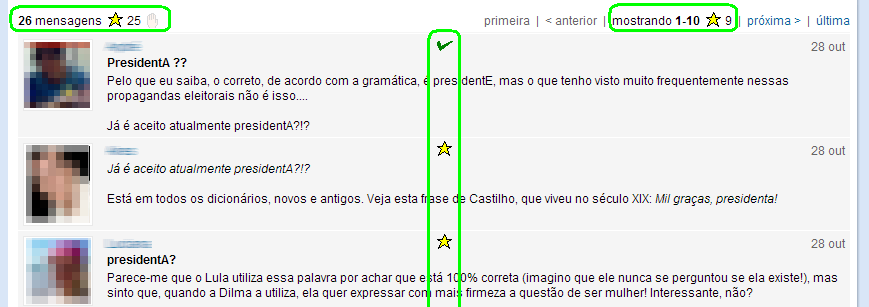
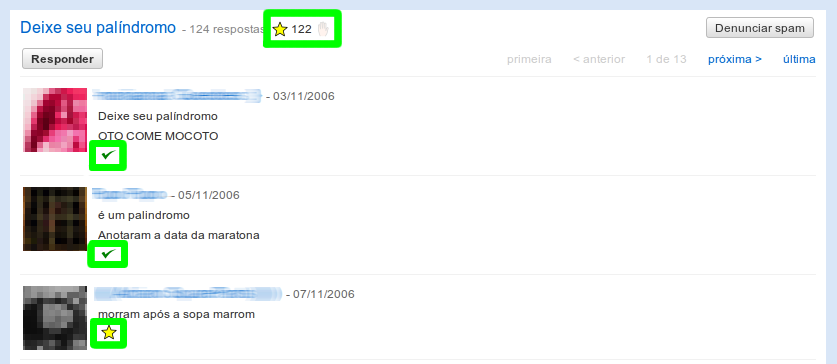
Revisão de instruções e capturas de tela.

diff --git a/src/background/options.html b/src/background/options.html
@@ -63,8 +63,7 @@
 			img.screenshot {
 				border: 1px solid black;
 				text-align: center;
-				width: 90%;
-				margin-left: 5%;
+				margin-left: 20px;
 			}
 			
 			img.off {
@@ -239,27 +238,17 @@
 			</div>
 			
 			<div id="cont-instructions" class="content-panel">
-				Ícones ajudam a identificar a situação de leitura dos tópicos e suas mensagens.
-				O significado dos ícones estão explicados abaixo.
-				Quanto estiver navegando no Orkut™, pode-se ver uma descrição dos ícones ao passar o mouse sobre eles.
+				Navegue nas comunidades do Orkut™ com ícones que ajudam a identificar a situação de leitura dos tópicos e suas mensagens.<br/>
+				O significado dos ícones estão explicados abaixo e uma descrição pode ser vista ao passar o mouse sobre um ícone quando estiver navegando no Orkut™.<br/>
+				Esta extensão funciona nas <b>versões nova e antiga</b> do Orkut™.<br/>
+				Consulte as <a href="#limitations">limitações</a> a que esta extensão está sujeita.
 				
 				<br/><br/>
-				<div class="warning">
-					<b>ATENÇÃO</b>: Devido a alterações feitas no Orkut™, esta extensão só é compatível com a
-					versão antiga do Orkut™. Para usá-la, clique em "versão antiga" na parte superior
-					direita da página do Orkut™ e em seguinda no botão "voltar para o orkut antigo".
-					<br/>
-					Uma nova versão desta extensão está sendo preparada para funcionar com as alterções recentes feitas no Orkut™.
-					<br/>
-					Veja mais informações sobre <a href="#limitations">limitações</a>.
-				</div>
-				
-				<br/>
 				<hr/>
 				<h3>Lista de tópicos</h3>
 				<img class="screenshot" src="../images/screenshots/TopicList.png"><br/>
 				<br/>
-				Na lista de tópicos da comunidade haverá uma coluna a mais - <b>status</b> - que informará:
+				Na lista de tópicos, em cada tópico haverá um ícone que informará:
 				<ul>
 					<li><img src="../images/check.png"> Não há mensagens novas no tópico.</li>
 					<li><img src="../images/exclamation.png"> O tópico é novo / nenhuma mensagem foi lida.</li>
@@ -273,10 +262,9 @@
 				<h3>Mensagens de um Tópico</h3>
 				<img class="screenshot" src="../images/screenshots/TopicMessages.png"><br/>
 				<br/>
-				Nas páginas de mensagens de um tópico, os ícones estarão acima da lista de mensagens e em cada mensagem.
-				Os ícones que aparecem acima da lista se repetem abaixo da lista de mensagens.
+				Nas páginas de mensagens de um tópico, haverá ícones na parte superior da página &ndash; ao lado do título do tópico &ndash; e em cada mensagem.
 				<br/>
-				Acima da lista, do lado esquerdo, há um indicador do número total de mensagens do tópico e poderá haver os seguintes ícones referentes ao <b>tópico</b>:
+				Na parte superior da página, há um indicador do número total de mensagens do tópico e poderá haver os seguintes ícones referentes ao <b>tópico</b>:
 				<ul>
 					<li><img src="../images/check.png"> O tópico foi todo lido / não há mensagens novas.</li>
 					<li><img src="../images/exclamation.png"> O tópico é novo / nenhuma mensagem foi lida.</li>
@@ -286,20 +274,11 @@
 					<li><img src="../images/ignored.png" class="off"> Clique para ignorar o tópico.</li>
 				</ul>
 				<br/>
-				Na área do lado direito, acima da lista de mensagens, estão os links tradicionais para navegação entre páginas.
-				Entre eles, há um indicador do intervalo de mensagens exibidas na página atual e poderá haver os seguintes ícones referentes às <b>mensagens na página atual</b>:
+				Em cada mensagem haverá um ícone de ação referente à <b>mensagem</b>:
 				<ul>
-					<li><img src="../images/check.png"> Todas as mensagens da página atual (e anteriores) foram lidas.</li>
-					<li><img src="../images/exclamation.png"> Nenhuma mensagem da página atual (e seguintes) foi lida.</li>
-					<li><img src="../images/star.png"> Indica que a página atual é a primeira com mensagens novas.
-						O número ao lado do ícone indica quantas mensagens há para serem lidas na página atual.</li>
-				</ul>
-				<br/>
-				Na parte superior de cada mensagem, no centro, haverá um ícone de ação referente à <b>mensagem</b>:
-				<ul>
-					<li><img src="../images/check.png"> A mensagem já foi lida. Clique para marcar o tópico como <b>não</b>-lido a partir dela
+					<li><img src="../images/check.png"> A mensagem já foi lida. Clique para marcar o tópico como <b>não-lido</b> a partir dela
 						(a mensagem e todas as seguintes serão marcadas como não-lidas).</li>
-					<li><img src="../images/star.png"> Indica que a mensagem ainda não foi lida. Clique para marcar que o tópico foi lido até esta mensagem
+					<li><img src="../images/star.png"> Indica que a mensagem ainda não foi lida. Clique para marcar que o tópico <b>foi lido</b> até esta mensagem
 						(a mensagem e todas as anteriores serão marcadas como lidas).</li>
 				</ul>
 			</div>
@@ -308,15 +287,16 @@
 				Esta extensão adiciona novas funcionalidades ao Orkut™ usando informações contidas nas próprias páginas
 				do Orkut™ e, assim, está sujeita a situações como as listadas abaixo: 
 				<ul>
-					<li>O Google™ pode fazer alterações nas páginas do Orkut™ a qualquer momento sem aviso prévio, o
-						que pode fazer com que a extensão deixe de funcionar parcialmente ou totalmente.</li>
 					<li>A extensão faz o melhor esforço para usar as informações contidas nas páginas no Orkut™. Em
 						algumas situações as informações não são suficientes, o que pode causar situações "estranhas"
 						como exibir um número negativo de mensagens novas ou não destacar com uma estrela um tópico
 						que tenha mensagens novas. (Estes dois casos podem acontecer em situações em que mensagens
 						são removidas do tópico.)
 						</li>
+					<li>O Google™ pode fazer alterações nas páginas do Orkut™ a qualquer momento sem aviso prévio, o
+						que pode fazer com que a extensão deixe de funcionar parcialmente ou totalmente.</li>
 				</ul>
+				O Marcador de Tópicos para o Orkut™ funciona somente com o Orkut™ em português do Brasil.
 			</div>
 		</div>
 	</body>

diff --git a/src/content_script/TopicListPageProcessor.js b/src/content_script/TopicListPageProcessor.js
@@ -38,25 +38,19 @@ TopicListPageProcessor.prototype.pageIsReady = function() {
 
 TopicListPageProcessor.prototype.process = function() {
 	// Encontra os tópicos na página
-	var items = this.doc.evaluate('//a[starts-with(@href, "#CommMsgs?cmm=")]/..', this.doc, null, XPathResult.ORDERED_NODE_SNAPSHOT_TYPE, null);
-	for(var i = 0; i < items.snapshotLength; i++) {
-		if(i % 2 == 0) {
-			// Link com o título do tópico
-			var item = items.snapshotItem(i);
-			this.processItem(item);
-		} else {
-			// Link com o início do texto da última postagem no tópico
-			;
-		}
+	var topicTitleLinks = this.doc.evaluate('//a[starts-with(@href, "#CommMsgs?cmm=") and not(contains(@href, "&na="))]', this.doc, null, XPathResult.ORDERED_NODE_SNAPSHOT_TYPE, null);
+	for(var i = 0; i < topicTitleLinks.snapshotLength; i++) {
+		var topicTitleLink = topicTitleLinks.snapshotItem(i);
+		var item = topicTitleLink.parentNode;
+		this.processItem(item, topicTitleLink);
 	}
 };
 
 
-TopicListPageProcessor.prototype.processItem = function(item) {
+TopicListPageProcessor.prototype.processItem = function(item, topicTitleLink) {
 	// Extrai o ID do tópico
-	var linkElement = item.getElementsByTagName('a')[1];
-	var topicUrl = linkElement.href;
-	var m = topicUrl.match(/tid=(\d+)/);
+	var topicUrl = topicTitleLink.href;
+	var m = topicUrl.match(/&tid=(\d+)/);
 	var topicId = m[1];
 	
 	// Obtém o total de mensagens
